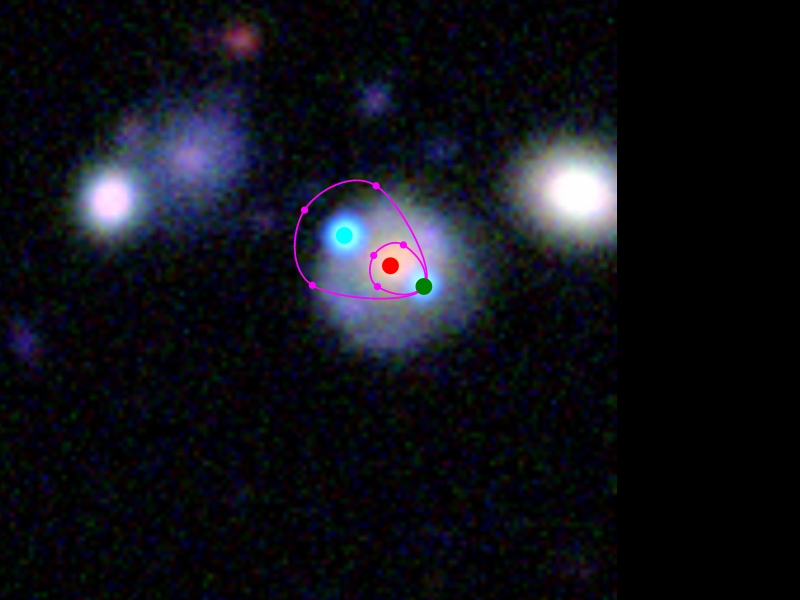
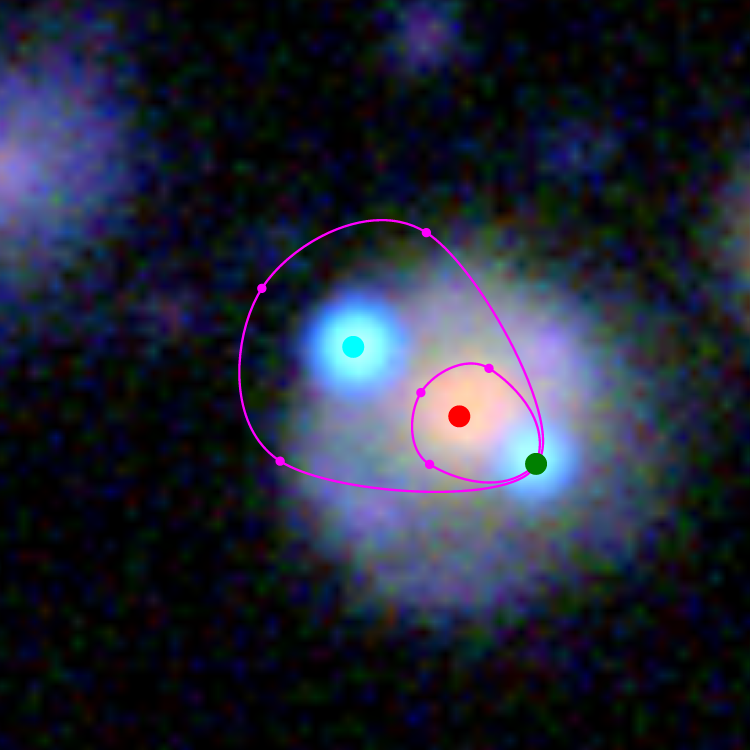
proper scaling

diff --git a/plots/gen_plots.py b/plots/gen_plots.py
@@ -173,6 +173,34 @@ if write_to_tex_folder:
 
   
 
+#manual scaling factors
+
+scales = {}
+scales['ASW000102p'] = {}
+scales['ASW000102p'][6941] = {
+#    Map radius           = 0.1851 [arcsec] Distance to center of outer pixel.
+#    Map Extent           = 0.1929 [arcsec] Distance to outer edge of outer pixel.
+#    top_level_cell_size  = 0.0154 [arcsec]
+#    Map radius           = 1.1168 [kpc]    H0inv=13.7
+#    Map Extent           = 1.1633 [kpc]    H0inv=13.7
+    'map_r'           : {'arcsec':0.1851, 'kpc': 1.1168},
+    'map_e'           : {'arcsec':0.1929, 'kpc': 1.1633},
+}
+  
+scales['ASW000195x'] = {}
+scales['ASW000195x'][6975] = {
+    # Pixel radius         = 12
+    # Map radius           = 0.4118 [arcsec] Distance to center of outer pixel.
+    # Map Extent           = 0.4290 [arcsec] Distance to outer edge of outer pixel.
+    # top_level_cell_size  = 0.0343 [arcsec]
+    # Map radius           = 2.1836 [kpc]    H0inv=13.7
+    # Map Extent           = 2.2746 [kpc]    H0inv=13.7
+    # top_level_cell       = 0.1820 [kpc]    H0inv=13.7
+    'map_r'           : {'arcsec':0.4118, 'kpc': 2.1836},
+    'map_e'           : {'arcsec':0.4290, 'kpc': 2.2746},
+}
+  
+  
 
 
 def test():
